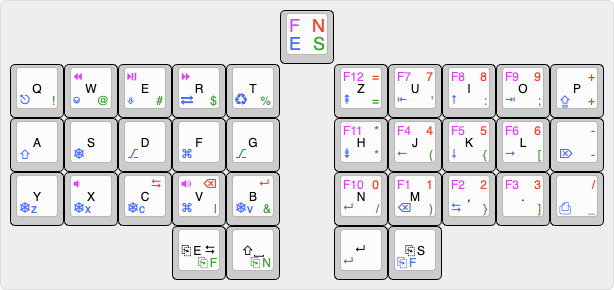
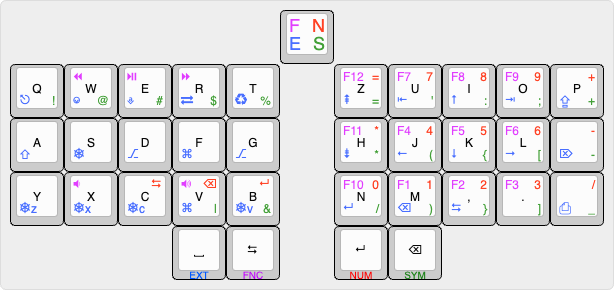
Enabled auto shift Adjusted layer access

diff --git a/keymaps/keymap.c b/keymaps/keymap.c
@@ -15,8 +15,10 @@ enum layers {
 #define NUM MO(_NUM)
 
 // Mod key Aliases
-#define SFT_SPC LSFT(KC_SPC)
-#define EXT_TAB LT(EXT, KC_TAB)
+#define EXT_SPC LT(EXT, KC_SPC)
+#define SYM_BSP LT(EXT, KC_BSPC)
+#define FNC_TAB LT(EXT, KC_TAB)
+#define NUM_ENT LT(EXT, KC_ENT)
 
 // Oneshot Aliases
 #define OS_SFT OSM(MOD_LSFT)
@@ -38,13 +40,13 @@ const uint16_t PROGMEM keymaps[][MATRIX_ROWS][MATRIX_COLS] = {
          KC_Q,    KC_W,    KC_E,    KC_R,    KC_T,       KC_Z,    KC_U,    KC_I,    KC_O,    KC_P,
          KC_A,    KC_S,    KC_D,    KC_F,    KC_G,       KC_H,    KC_J,    KC_K,    KC_L, XXXXXXX,
          KC_Y,    KC_X,    KC_C,    KC_V,    KC_B,       KC_N,    KC_M, KC_COMM,  KC_DOT, XXXXXXX,
-                                 EXT_TAB, SFT_SPC,     KC_ENT,     SYM
+                                 EXT_SPC, FNC_TAB,    NUM_ENT, SYM_BSP
    ),
    [_EXT] = LAYOUT(
        KC_ESC, KC_PAUS,  KC_INS, GUI_TAB, GUI_GRV,    KC_PGUP, KC_HOME,   KC_UP,  KC_END, KC_CAPS,
        OS_SFT,  OS_CTL,  OS_ALT,  OS_GUI, OS_RALT,    KC_PGDN, KC_LEFT, KC_DOWN, KC_RGHT,  KC_DEL,
          UNDO,     CUT,    COPY, KC_LGUI,   PASTE,     KC_ENT, KC_BSPC,  KC_TAB, XXXXXXX, KC_PSCR,
-                                 XXXXXXX, XXXXXXX,     KC_ENT,     FNC
+                                 XXXXXXX, XXXXXXX,    XXXXXXX, XXXXXXX
    ),
    [_FNC] = LAYOUT(
       XXXXXXX, KC_MRWD, KC_MPLY, KC_MFFD, XXXXXXX,     KC_F12,   KC_F7,   KC_F8,   KC_F9, XXXXXXX,
@@ -56,7 +58,7 @@ const uint16_t PROGMEM keymaps[][MATRIX_ROWS][MATRIX_COLS] = {
       KC_EXLM,   KC_AT, KC_HASH,  KC_DLR, KC_PERC,    KC_PEQL, KC_QUOT, KC_COLN, KC_SCLN, KC_PLUS,
       _______, _______, _______, _______, _______,    KC_ASTR, KC_LPRN, KC_LCBR, KC_LBRC, KC_MINS,
       XXXXXXX, XXXXXXX, KC_BSLS, KC_PIPE, KC_AMPR,    KC_PSLS, KC_RPRN, KC_RCBR, KC_RBRC, KC_UNDS,
-                                     FNC,     NUM,    XXXXXXX, XXXXXXX
+                                 XXXXXXX, XXXXXXX,    XXXXXXX, XXXXXXX
    ),
    [_NUM] = LAYOUT(
       _______, _______, _______, _______, _______,    KC_PEQL,   KC_P7,   KC_P8,   KC_P9, KC_PPLS,

diff --git a/converter.py b/converter.py
@@ -74,6 +74,23 @@ for i in range(34):
         x = str(offset_x)
 
     key = '[{rx: ' + x + ', ry: ' + y + ', t:"#c100ff\n#0058ff\n#ff0303\n#22851e\n\n\n\n\n\n#000000",f:3}, "' + fnc_sym + '\n' + ext_sym + '\n' + num_sym + '\n' + sym_sym + '\n\n\n\n\n\n' + fnc_base + '"]'
+
+    if 'EXT' in base[i]:
+        bottom_legend = base[i].split("_")[0]
+        key = '[{rx: ' + x + ', ry: ' + y + ', t:"#000000\n\n\n\n#0058ff",f:3}, "\n\n\n\n' + bottom_legend + '\n\n\n\n\n' + fnc_base + '"]'
+
+    if 'SYM' in base[i]:
+        bottom_legend = base[i].split("_")[0]
+        key = '[{rx: ' + x + ', ry: ' + y + ', t:"#000000\n\n\n\n#22851e",f:3}, "\n\n\n\n' + bottom_legend + '\n\n\n\n\n' + fnc_base + '"]'
+
+    if 'FNC' in base[i]:
+        bottom_legend = base[i].split("_")[0]
+        key = '[{rx: ' + x + ', ry: ' + y + ', t:"#000000\n\n\n\n#c100ff",f:3}, "\n\n\n\n' + bottom_legend + '\n\n\n\n\n' + fnc_base + '"]'
+
+    if 'NUM' in base[i]:
+        bottom_legend = base[i].split("_")[0]
+        key = '[{rx: ' + x + ', ry: ' + y + ', t:"#000000\n\n\n\n#ff0303",f:3}, "\n\n\n\n' + bottom_legend + '\n\n\n\n\n' + fnc_base + '"]'
+
     kle.append(key.encode("unicode_escape").decode("utf-8"))
 
     rx = rx + 1

diff --git a/README.md b/README.md
@@ -4,6 +4,3 @@ My custom qmk keymap inspired by [Seniply](https://stevep99.github.io/seniply/)
 
 ## Keymap as image
 ![keyboard-layout](keyboard-layout.png)
-
-## Layer flow
-![keyboard-layout](layer-flow.drawio.png)
